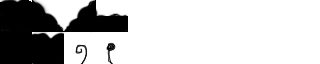
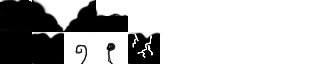
added level changing, new map, fixed some bugs

Changed region(s): [[0.375, 0.5, 0.5, 1.0]]

diff --git a/js/weapons.js b/js/weapons.js
@@ -67,10 +67,13 @@ game.projectile = me.ObjectEntity.extend({
 		self.owner = owner;
 		self.parent(x, y, {image: self.gun.projectile, spriteWidth: self.gun.pWidth});
 		
+		if(self.gun.explode) {
+			self.canBreakTile = true;
+		}
+		
 		// TO DO:
 		// Implement new projectiles (rockets, flames, grenades
 		// Implement animations for special projectiles (rockets, flames, grenades)
-		
 		
 		//set up bullet physics
 		self.gravity = gun.physics.weight;
@@ -91,7 +94,7 @@ game.projectile = me.ObjectEntity.extend({
 	},
 	
 	explode: function() {
-		var boom = new game.Explosion(this.pos.x, this.pos.y);
+		var boom = new game.Explosion(this.pos.x, this.pos.y, this.facing);
 		me.game.add(boom, 2);
 		me.game.sort();
 	},
@@ -114,6 +117,9 @@ game.projectile = me.ObjectEntity.extend({
 		var res = me.game.collide(self);
 		var hit = self.updateMovement();
 		
+		// console.log(res);
+		// console.log(hit);
+		
 		// Checks collisions -- first checks to see if it hits an enemy object
 		// Next checks to see if it hits a tile, and if so what kind
 		// This is getting too jumbled; Find a way to do this better -
@@ -125,10 +131,21 @@ game.projectile = me.ObjectEntity.extend({
 					self.explode();
 					self.exploded = true;
 				}	
-				me.game.remove(self);
-			}
+				me.game.remove(self);		
+			} 
+		}
+		
+		//
+		//  THIS IS EXTREMELY UGLY -- FIX WHEN IT'S WORKING
+		//  THIS IS EXTREMELY UGLY -- FIX WHEN IT'S WORKING
+		//
+		
 		// If it hit a solid tile and hasn't ricocheted yet (to keep it simple/for now)
-		} else if(hit.xprop.type === 'solid' && !self.ricochet) {
+		if(((hit.xprop.type === 'solid' || hit.yprop.type === 'solid' || hit.xprop.type === 'breakable' || hit.yprop.type === 'breakable') && !self.ricochet) || (this.pos.x <= 5 || this.pos.y <=5)) {
+			//if we break a breakable tile, set it to avoid any further collisions
+			if(self.canBreakTile && (hit.xprop.type === 'breakable' || hit.yprop.type === 'breakable')) {
+				hit.xprop.isCollidable = false;
+			}
 			// If the projectile is allowed to ricochet, set it's velocity, direction, and angle
 			if(self.gun.physics.rico) {
 				self.angle = game.physicsEngine.ranAngle(self.facing, 'solid');
@@ -142,7 +159,7 @@ game.projectile = me.ObjectEntity.extend({
 			} else if(self.gun.physics.bounce) {
 				//placeholder for bounces (grenades);
 			// Otherwise explode and/or destroy the projectile
-			} else {
+			}else {
 				if(self.gun.explode && !self.exploded){
 					self.exploded = true;
 					self.explode();
@@ -162,9 +179,9 @@ game.projectile = me.ObjectEntity.extend({
 			}
 		// If it doesn't hit anything, explode or destroy it after 2000ms
 		} else {
-			setTimeout(function() {
-					me.game.remove(self);
-			}, 2000);
+			if(!self.visible) {
+				me.game.remove(self);
+			}
 		}
 		
 		// If the position changes, return true to update, otherwise don't
@@ -235,11 +252,20 @@ game.weapon = me.AnimationSheet.extend({
 });
 
 game.Explosion = me.ObjectEntity.extend({
-	init: function(x, y) {
+	init: function(x, y, facing) {
 		var self = this;
 		self.parent(x, y, {image: "explode", spritewidth: 32});
 		self.init = true;
-		this.gravity = 0;
+		self.facing = facing;
+		self.gravity = 0;
+		self.animationspeed = 4;
+		
+		// offsets for explosion -- just subtract the offsets added to the rocket gun
+		// fix these 'magic' numbers later
+		this.pos.y -= 12;
+		if(self.facing === 'right') {
+			this.pos.x -= 25;
+		}
 		
 	},
 	
@@ -256,13 +282,8 @@ game.Explosion = me.ObjectEntity.extend({
 			self.init = false;
 		}
 		
-		self.updatePosition();
+		this.parent();
 		
 		return true;
-	},
-	
-	draw: function(context, x, y) {
-		this.parent(context);
-        var viewport = me.game.viewport.pos;
 	}
 });

diff --git a/js/otherents.js b/js/otherents.js
@@ -1,3 +1,16 @@
+// extened LevelEntity so that only our player triggers level changes, not any other objects
+game.LevelChangeEntity = me.LevelEntity.extend({
+	init: function(x, y, settings) {
+		this.parent(x, y, settings);
+	},
+	
+	onCollision: function(res, obj) {
+		if(obj.name === 'player') {
+			this.goTo(this.gotolevel);
+		}
+	}
+});
+
 // Coin entity -- simple gets collected and adds to the score when it does.
 // TO DO: Fix so guns don't collect/destroy them
 game.CoinEntity = me.CollectableEntity.extend({
@@ -6,10 +19,12 @@ game.CoinEntity = me.CollectableEntity.extend({
 		this.parent(x, y, settings);
 	},
 	
-	onCollision: function() {
-		me.game.HUD.updateItemValue("score", 250);
-		this.collidable = false;
-		me.game.remove(this);
+	onCollision: function(res, obj) {
+		if(obj.name === 'player') {
+			me.game.HUD.updateItemValue("score", 250);
+			this.collidable = false;
+			me.game.remove(this);
+		}
 	}
 });
 

diff --git a/js/player.js b/js/player.js
@@ -8,17 +8,18 @@ game.PlayerEntity = game.Sprite.extend({
 		self.parent(x, y, settings);
 		
 		// Set basic stuff - walk/jump speed, shooting, weapons
-		self.setVelocity(3, 10);
+		self.setVelocity(10, 16);
 		self.shooting = false;
 		self.weapons = [game.weapons.basic, game.weapons.machinegun, game.weapons.rocket];
 		self.currentWep = 0;
+		self.hp = 10;
 		
 		// TO DO - Add animation for jumping and standing
 		self.addAnimation("walk", [0, 1, 2, 3, 4]);
 		self.setCurrentAnimation("walk");
 		
 		// Change the collision rect to match the sprite -- off fix when sprite finalized
-		self.updateColRect(4, 26, 12, 20);
+		self.updateColRect(4, 26, -1, 0);
 		self.facing = 'right';
 		
 		// Equip the basic weapon and set the viewport to follow the player

diff --git a/js/main.js b/js/main.js
@@ -60,6 +60,9 @@ var game = {
 			me.entityPool.add("player", game.PlayerEntity);
 			me.entityPool.add("coin", game.CoinEntity);
 			me.entityPool.add("enemy", game.EnemyEntity);
+			me.entityPool.add("levelchange", game.LevelChangeEntity);
+			
+			me.debug.renderHitBox = true
 			
 			me.input.bindKey(me.input.KEY.LEFT, "left");
 			me.input.bindKey(me.input.KEY.RIGHT, "right");

diff --git a/js/resources.js b/js/resources.js
@@ -18,5 +18,6 @@ game.resources = {
 	
 	map: [
 		"map1",
+		"map2"
 	]
 };
